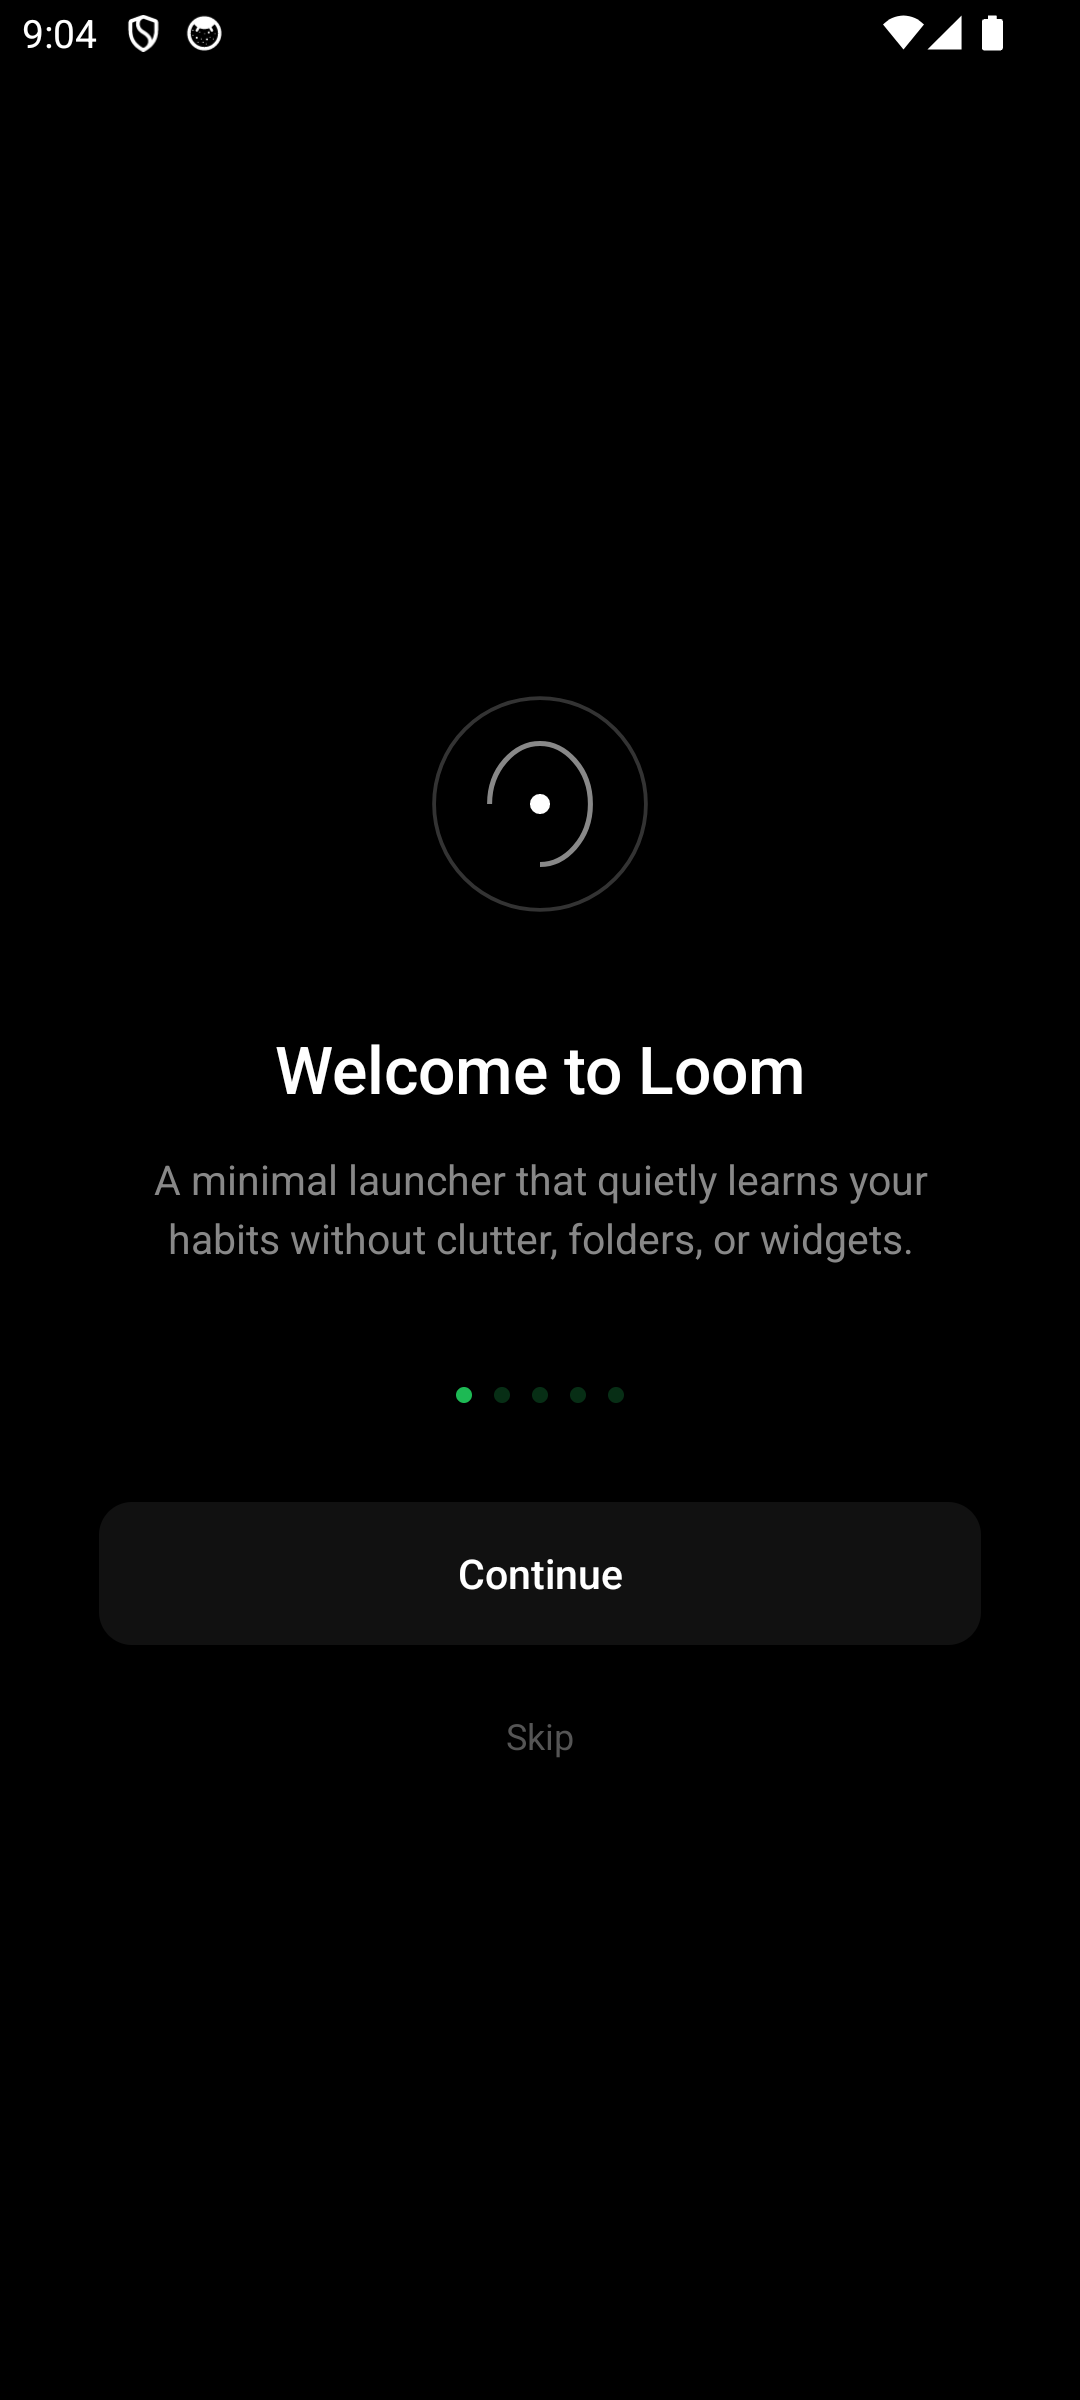
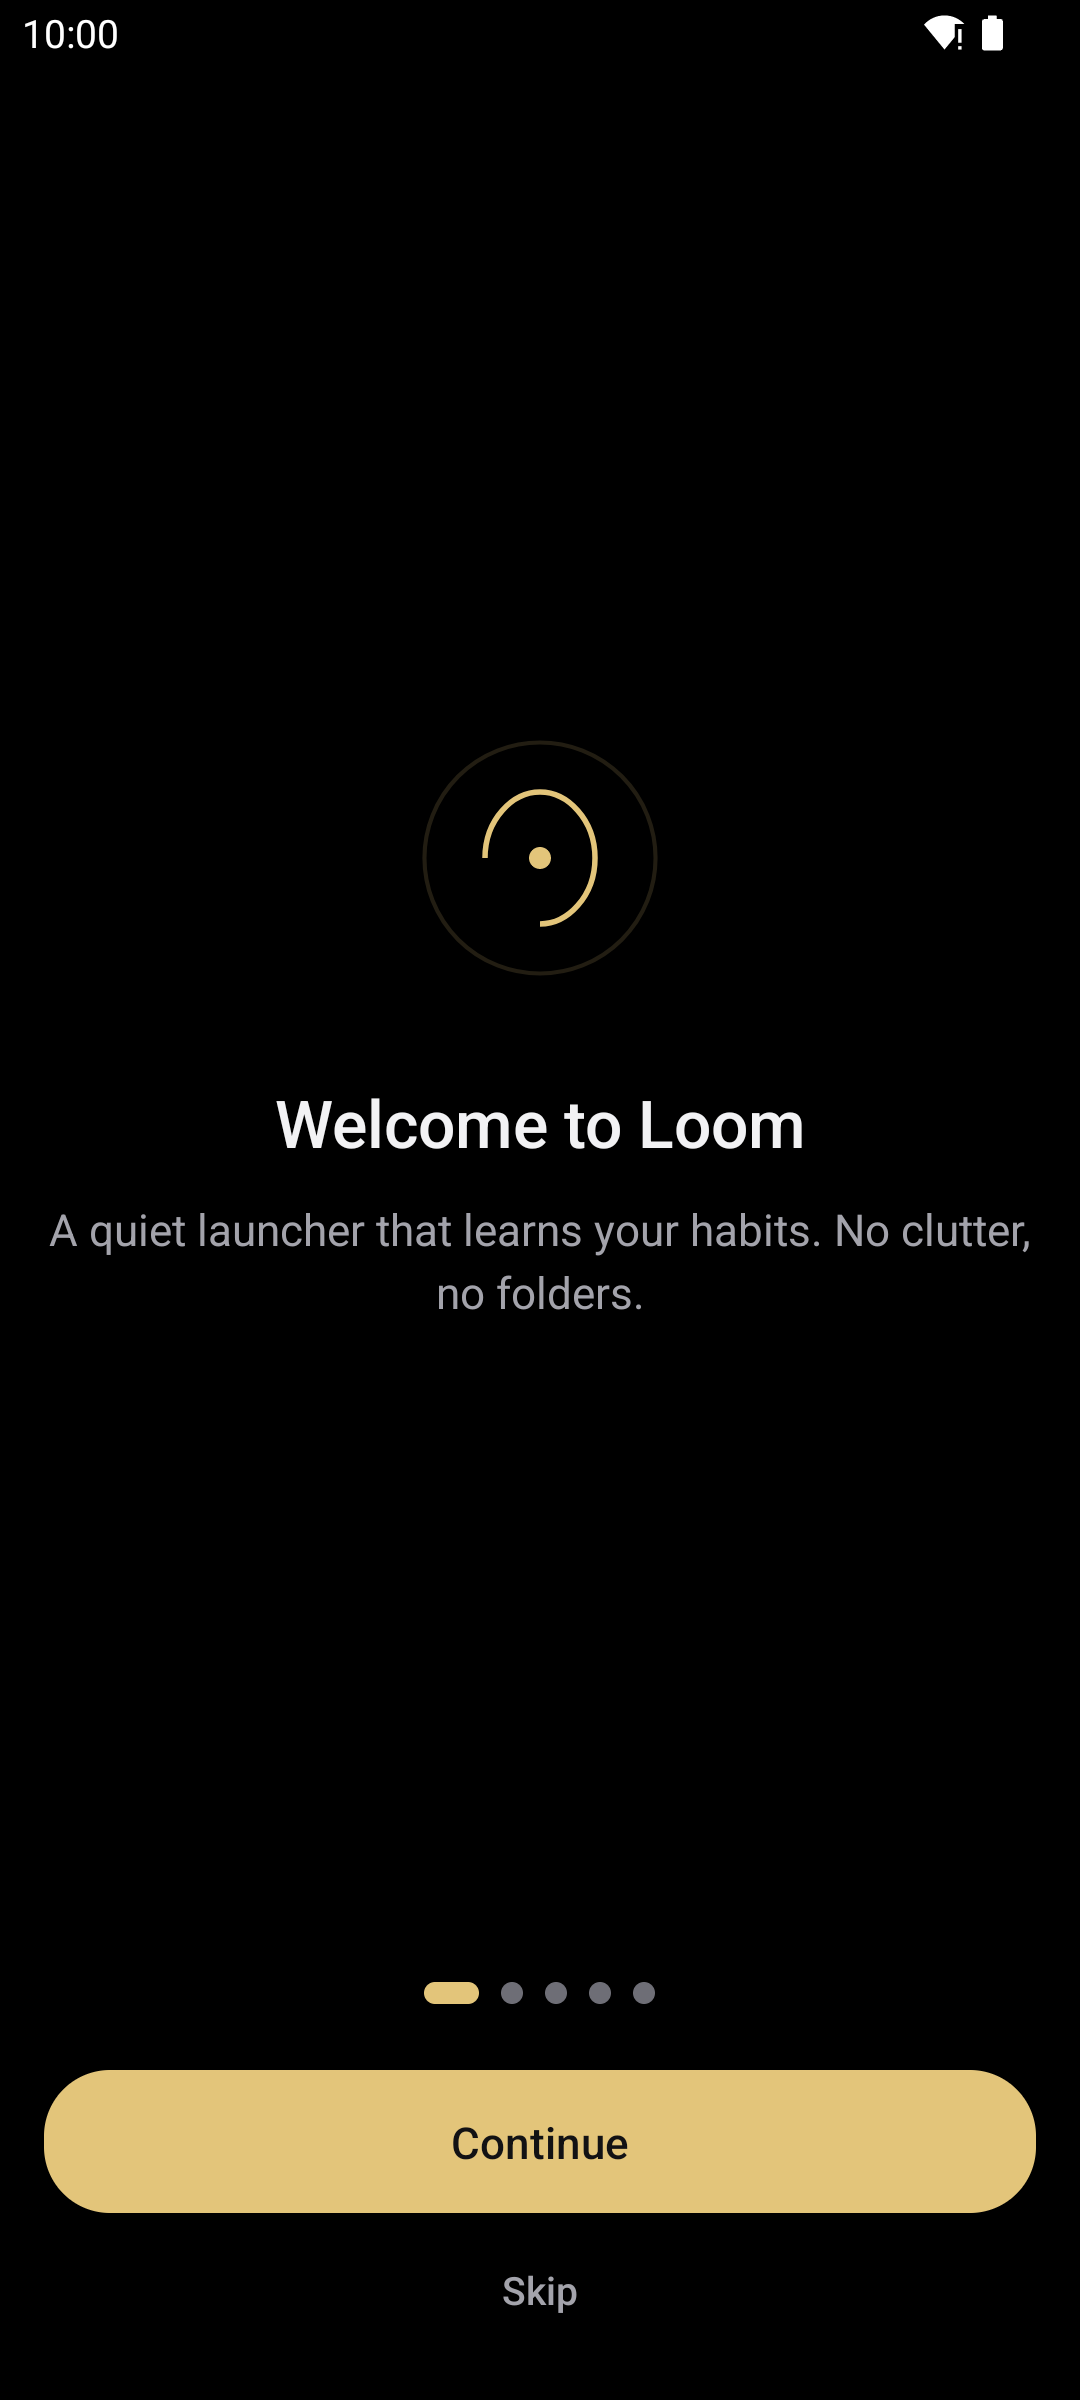
docs: refresh screenshots for the new design
New captures taken on the emulator (dark theme, plus one light home):
onboarding, home (hero / half-row / tile hierarchy with the rank bar),
search, item sheet and settings. README screenshot section updated, store
phone screenshots (en-US) replaced, and the README wording aligned with the
tiles that now show names.

diff --git a/README.md b/README.md
@@ -19,7 +19,7 @@
   <sub>Early Alpha &nbsp;•&nbsp; Vibe Coded &nbsp;•&nbsp; Active Development</sub>
 </p>
 
-No folders. No widgets. No badges. Just a calm grid of app icons, dark or light, ranked by what you are most likely to need right now based on time of day, day of week, and your past habits.
+No folders. No widgets. No badges. Just a calm grid of app tiles, dark or light, ranked by what you are most likely to need right now based on time of day, day of week, and your past habits.
 
 > [!NOTE]
 > **Early Alpha**: Loom is at the very beginning of its journey and vibe-coded with care. Everything works on-device, but expect rapid evolution. Feedback and bug reports are warmly welcome!
@@ -39,11 +39,19 @@ No folders. No widgets. No badges. Just a calm grid of app icons, dark or light,
 ## Screenshots
 
 <p align="center">
-  <img src="docs/screenshots/00_onboarding.png" width="30%" alt="Onboarding tutorial" />
+  <img src="docs/screenshots/00_onboarding.png" width="30%" alt="Onboarding: welcome step" />
   &nbsp;&nbsp;&nbsp;&nbsp;
-  <img src="docs/screenshots/01_home.png" width="30%" alt="Home screen" />
+  <img src="docs/screenshots/01_home.png" width="30%" alt="Home screen in dark theme: the top app as a full-width hero, then half-width and small tiles ranked by likelihood" />
   &nbsp;&nbsp;&nbsp;&nbsp;
-  <img src="docs/screenshots/02_search.png" width="30%" alt="Instant search" />
+  <img src="docs/screenshots/02_search.png" width="30%" alt="Instant search: typing 'ma' filters the apps, keyboard open" />
+</p>
+
+<p align="center">
+  <img src="docs/screenshots/03_sheet.png" width="30%" alt="Long-press sheet on an app: launch count and last open time, Hide app, App info, Reset stats" />
+  &nbsp;&nbsp;&nbsp;&nbsp;
+  <img src="docs/screenshots/04_settings.png" width="30%" alt="Settings: grid columns, icon size, web search button, hidden apps, tracking permissions" />
+  &nbsp;&nbsp;&nbsp;&nbsp;
+  <img src="docs/screenshots/05_home_light.png" width="30%" alt="Home screen in light theme" />
 </p>
 
 ---
@@ -158,7 +166,7 @@ No LLM, no neural network, no server. "AI" here only means a small scoring formu
 Apps you have launched come first. While your history is short, the home screen is topped up with unused apps (up to 12 tiles) so it isn't nearly empty; they sit at the bottom and drop out as you use others. To hide an app for sure, long-press it and choose Hide.
 
 ### Why no badges, widgets or folders?
-Loom started as a text-only list and moved to an icon grid in August 2026. What it still leaves out is everything that pulls at your attention: notification badges, widgets and folders. App names are shown under every icon so nothing is guesswork. How likely you are to need an app now shows in its size (the best guesses get a full-width row), and a thin gold bar under the name gives the rank relative to the top app.
+Loom started as a text-only list and moved to an icon grid in August 2026. What it still leaves out is everything that pulls at your attention: notification badges, widgets and folders. App names are shown on every tile (beside the icon on the wide ones, under it on the small ones) so nothing is guesswork. How likely you are to need an app now shows in its size (the best guesses get a full-width row), and a thin gold bar under the name gives the rank relative to the top app.
 
 ### How is it different from Before Launcher or other minimal launchers?
 Many minimal launchers ask you to pick favorites and keep the rest in a list with search. Loom doesn't ask you to pick anything: it reorders the apps you actually use by time of day, weekday and the app you just closed, and apps you never open stay at the bottom, out of the way. The gain is modest: it saves a scroll or a search a few times a day, not hours. If a favorites-based launcher already works for you, there's no strong reason to switch.
